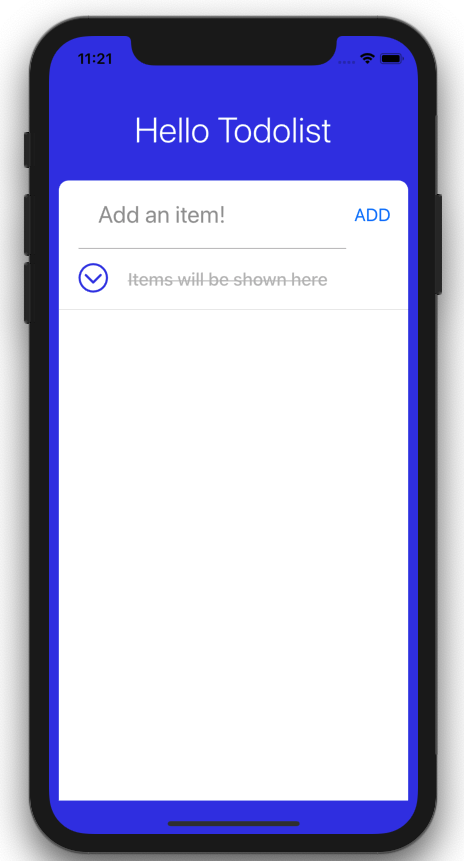
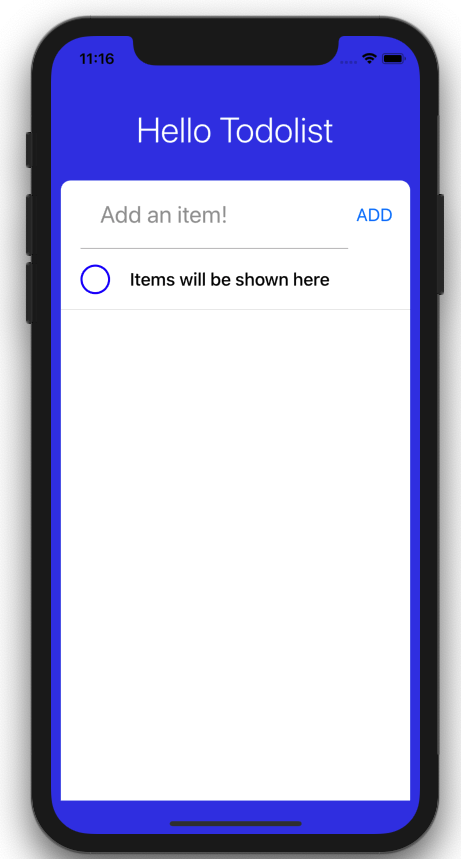
Add images

diff --git a/docs/basic-tutorial/basic-features/todolist/06-todolistitem/todolistitem.md b/docs/basic-tutorial/basic-features/todolist/06-todolistitem/todolistitem.md
@@ -1,0 +1,85 @@
+---
+layout: default
+title: 6. TodoListItem component
+parent: Make TodoList Apps
+grand_parent: React Native Basic Features
+nav_order: 6
+---
+
+Add all of this code in TodoListItem component.
+
+```js
+// components/TodoListItem.js
+import React from 'react';
+import {View, Text, StyleSheet, TouchableOpacity} from 'react-native';
+
+const TodoListItem = () => {
+  return (
+    <View style={styles.container}>
+      <TouchableOpacity>
+        <View style={styles.circle} />
+      </TouchableOpacity>
+      <Text style={styles.text}>TodoList items will be shown here</Text>
+    </View>
+  );
+};
+
+const styles = StyleSheet.create({
+  container: {
+    flex: 1,
+    borderBottomColor: '#bbb',
+    borderBottomWidth: StyleSheet.hairlineWidth,
+    flexDirection: 'row',
+    alignItems: 'center',
+    justifyContent: 'space-between',
+  },
+  text: {
+    flex: 5,
+    fontWeight: '500',
+    fontSize: 18,
+    marginVertical: 20,
+    width: 100,
+  },
+  circle: {
+    width: 30,
+    height: 30,
+    borderRadius: 15,
+    borderColor: 'blue',
+    borderWidth: 2,
+    marginRight: 20,
+    marginLeft: 20,
+  },
+});
+
+export default TodoListItem;
+```
+
+In TodoList.js, we need to import TodoListItem.
+
+Add TodoListItem component inside ScrollView.
+
+```js
+// components/TodoList.js
+...
+import TodoListItem from './TodoListItem';
+
+const TodoList = () => {
+  return (
+    <ScrollView contentContainerStyle={styles.listContainer}>
+      <TodoListItem />
+    </ScrollView>
+  );
+};
+
+const styles = StyleSheet.create({
+  listContainer: {
+    alignItems: 'center',
+  },
+});
+
+export default TodoList;
+```
+
+Run the app and check if the item we added appears.
+
+![](../images/TodoListItem.png "TodoListItem.png")
